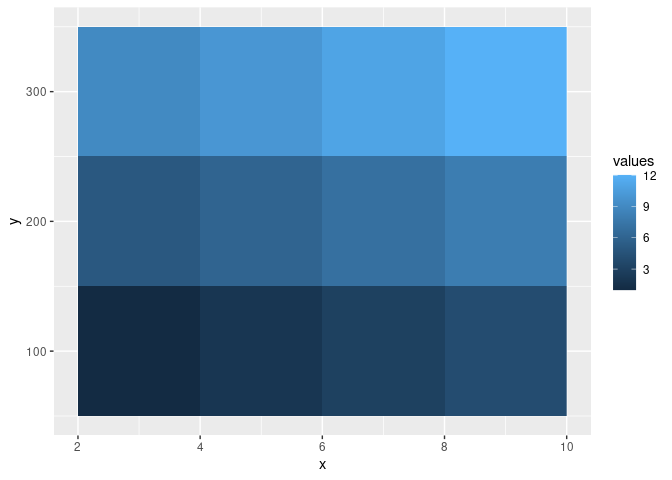
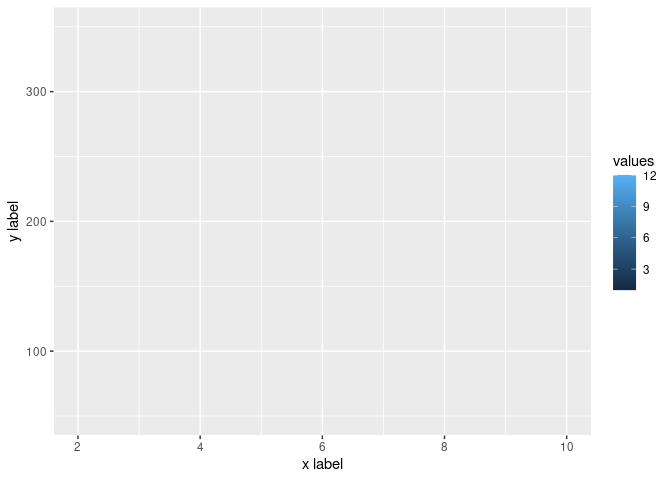
Update readme

diff --git a/README.md b/README.md
@@ -14,8 +14,8 @@ You can install the development version of ggmatrix from
 [GitHub](https://github.com/) with:
 
 ``` r
-# install.packages("devtools")
-devtools::install_github("zeehio/ggmatrix")
+# install.packages("remotes")
+remotes::install_github("zeehio/ggmatrix")
 ```
 
 ## Example
@@ -33,7 +33,7 @@ mat_small <- matrix(
   nrow = length(x_small),
   ncol = length(y_small)
 )
-dimnames(mat_small) <- list(x = x_small, y = y_small)
+dimnames(mat_small) <- list("x label" = x_small, "y label" = y_small)
 
 
 ggplot() + geom_matrix_raster(matrix = mat_small)
